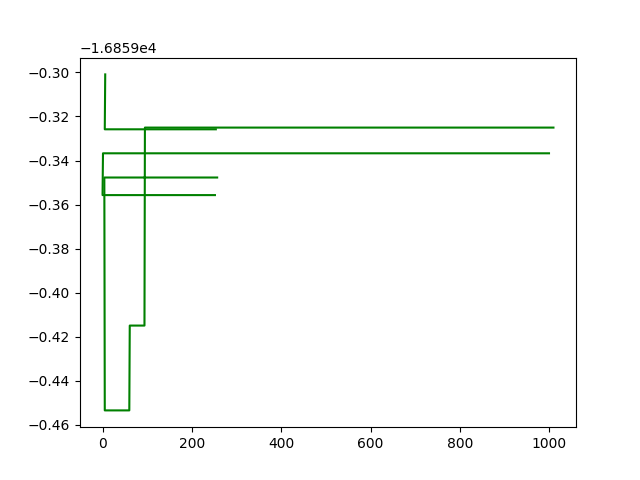
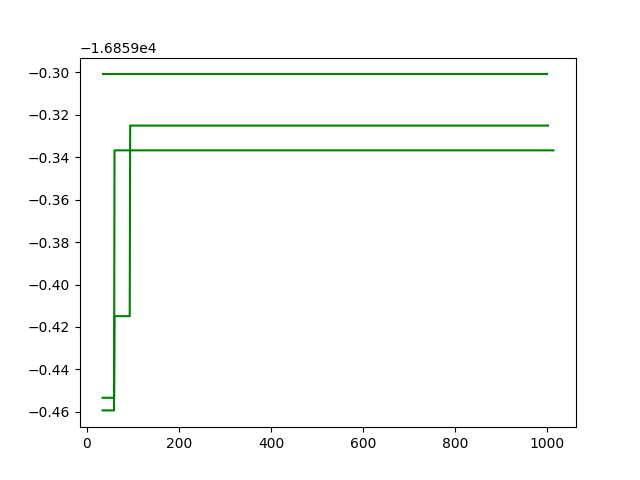
fix graph

diff --git a/iqtree.py b/iqtree.py
@@ -8,8 +8,60 @@ masterColor = ['', 'red', 'red', 'red', 'red', 'red']
 #mpiColor = ['', 'blue', 'green', 'black', 'brown', 'gray']
 mpiColor = ['', 'blue', 'blue', 'blue', 'blue', 'blue']
 
-for suffix in range(1, 6):
-    with open("master/" + argv + "/" + argv + "_" + str(suffix) + ".data") as f:
+hoangColor = ['', 'green', 'green', 'green', 'green', 'green']
+
+# for suffix in range(1, 6):
+#     with open("master/" + argv + "/" + argv + "_" + str(suffix) + ".data") as f:
+#         data = f.readlines()
+#         data = [x.strip() for x in data]
+
+#         for i in range (0, len(data)):
+#             data[i] = data[i].split()
+        
+#         data = np.array(data)
+#         data[:, 0] = data[:, 0].astype(int)
+#         data[:, 1] = data[:, 1].astype(float)
+        
+#         X = int(data[0, 0])
+#         y = float(data[0, 1])
+
+#         for i in range(1, len(data)):
+#             X = np.append(X, int(data[i, 0]) - 1)
+#             y = np.append(y, float(data[i - 1, 1]))
+            
+#             X = np.append(X, int(data[i, 0]))
+#             y = np.append(y, float(data[i, 1]))
+
+#         # Plot data
+#         plt.plot(X, y, color=masterColor[suffix])
+
+# for suffix in range(1, 6):
+#     with open("minhmpi/" + argv + '/' + argv + '_' + str(suffix) + '.data') as f:
+#         data = f.readlines()
+#         data = [x.strip() for x in data]
+
+#         for i in range (0, len(data)):
+#             data[i] = data[i].split()
+        
+#         data = np.array(data)
+#         data[:, 0] = data[:, 0].astype(int)
+#         data[:, 1] = data[:, 1].astype(float)
+        
+#         X = int(data[0, 0])
+#         y = float(data[0, 1])
+
+#         for i in range(1, len(data)):
+#             X = np.append(X, int(data[i, 0]) - 1)
+#             y = np.append(y, float(data[i - 1, 1]))
+            
+#             X = np.append(X, int(data[i, 0]))
+#             y = np.append(y, float(data[i, 1]))
+
+#         # Plot data
+#         plt.plot(X, y, color=mpiColor[suffix])
+
+for suffix in range(1, 4):
+    with open("hoangmpi/" + argv + '/' + argv + '_' + str(suffix) + '.data') as f:
         data = f.readlines()
         data = [x.strip() for x in data]
 
@@ -31,32 +83,7 @@ for suffix in range(1, 6):
             y = np.append(y, float(data[i, 1]))
 
         # Plot data
-        plt.plot(X, y, color=masterColor[suffix])
-
-for suffix in range(1, 6):
-    with open("minhmpi/" + argv + '/' + argv + '_' + str(suffix) + '.data') as f:
-        data = f.readlines()
-        data = [x.strip() for x in data]
-
-        for i in range (0, len(data)):
-            data[i] = data[i].split()
-        
-        data = np.array(data)
-        data[:, 0] = data[:, 0].astype(int)
-        data[:, 1] = data[:, 1].astype(float)
-        
-        X = int(data[0, 0])
-        y = float(data[0, 1])
-
-        for i in range(1, len(data)):
-            X = np.append(X, int(data[i, 0]) - 1)
-            y = np.append(y, float(data[i - 1, 1]))
-            
-            X = np.append(X, int(data[i, 0]))
-            y = np.append(y, float(data[i, 1]))
-
-        # Plot data
-        plt.plot(X, y, color=mpiColor[suffix])
+        plt.plot(X, y, color=hoangColor[suffix])
 
 plt.savefig("graph/" + argv + ".png")
 # plt.show()

diff --git a/runner.py b/runner.py
@@ -1,6 +1,6 @@
 import os
 
-testset = ["M2593", "M3810", "M4318", "M5379", "M6416", "M4170", "M7929", "M7964", "M14582"]
+testset = ["M667", "M1110", "M2534", "M3810", "M4170", "M6416", "M10243", "M510", "M2593", "M11595"]
 
 for test in testset:
     print(test)
